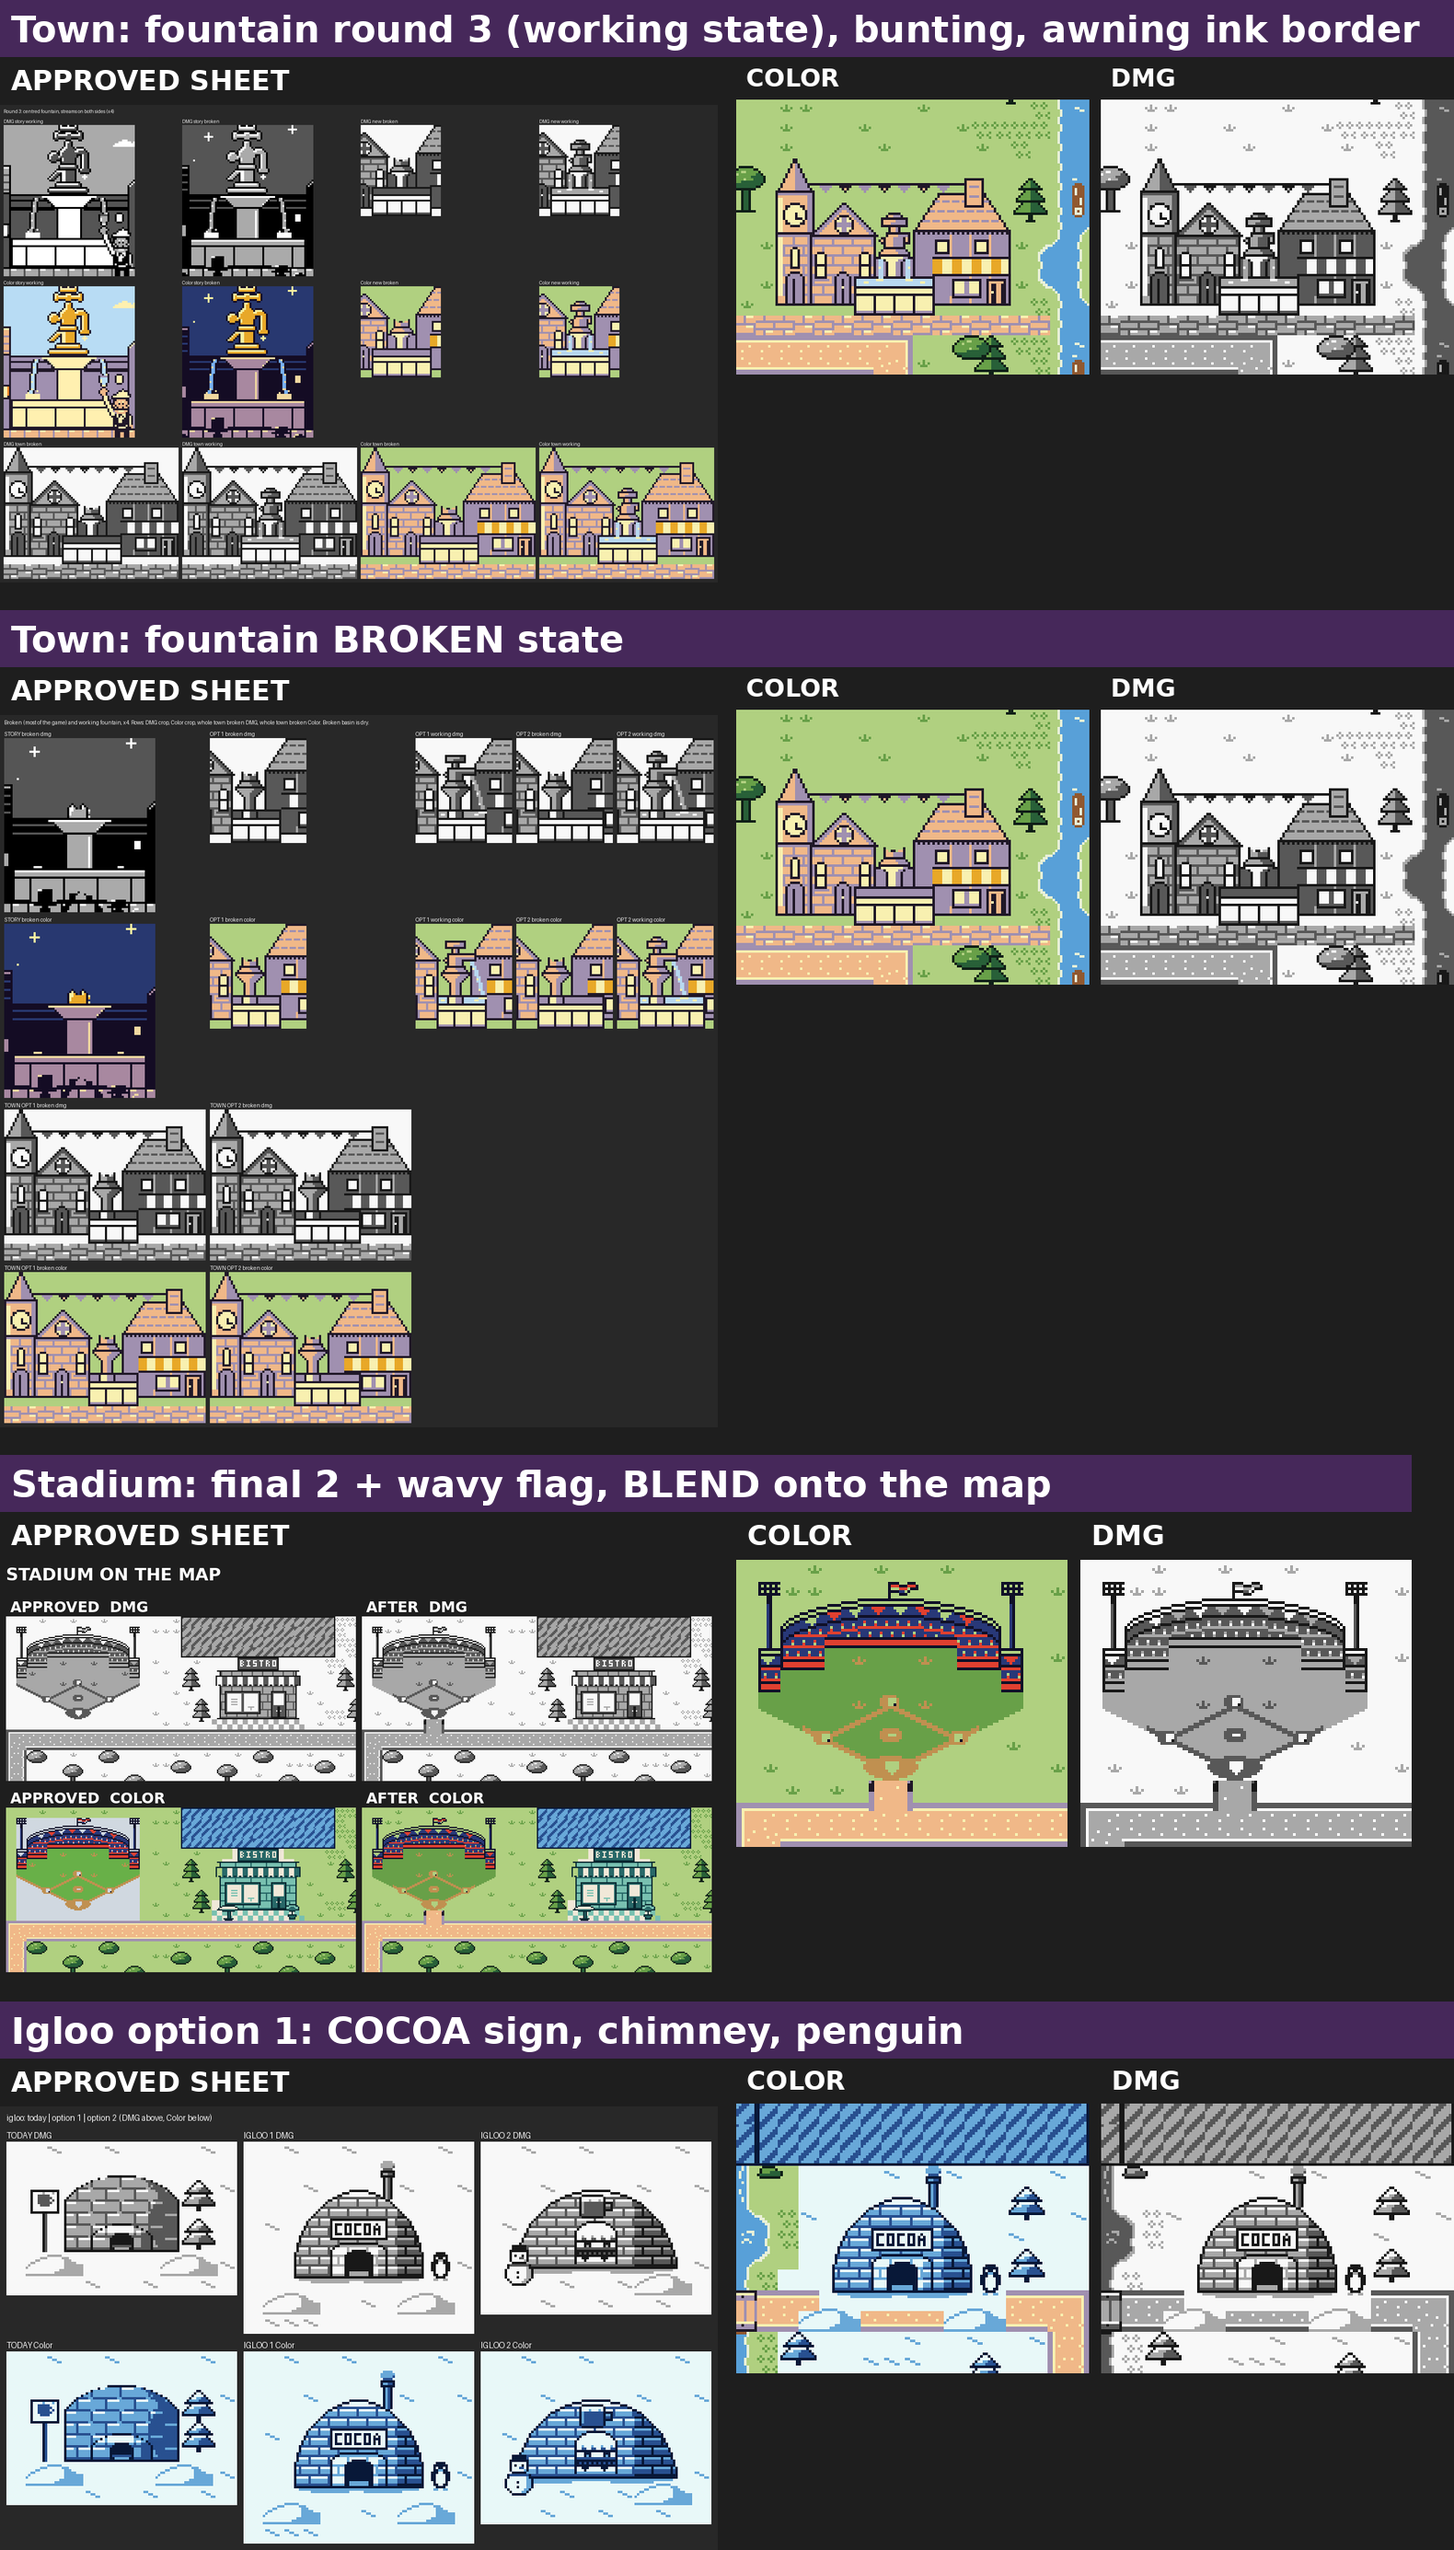
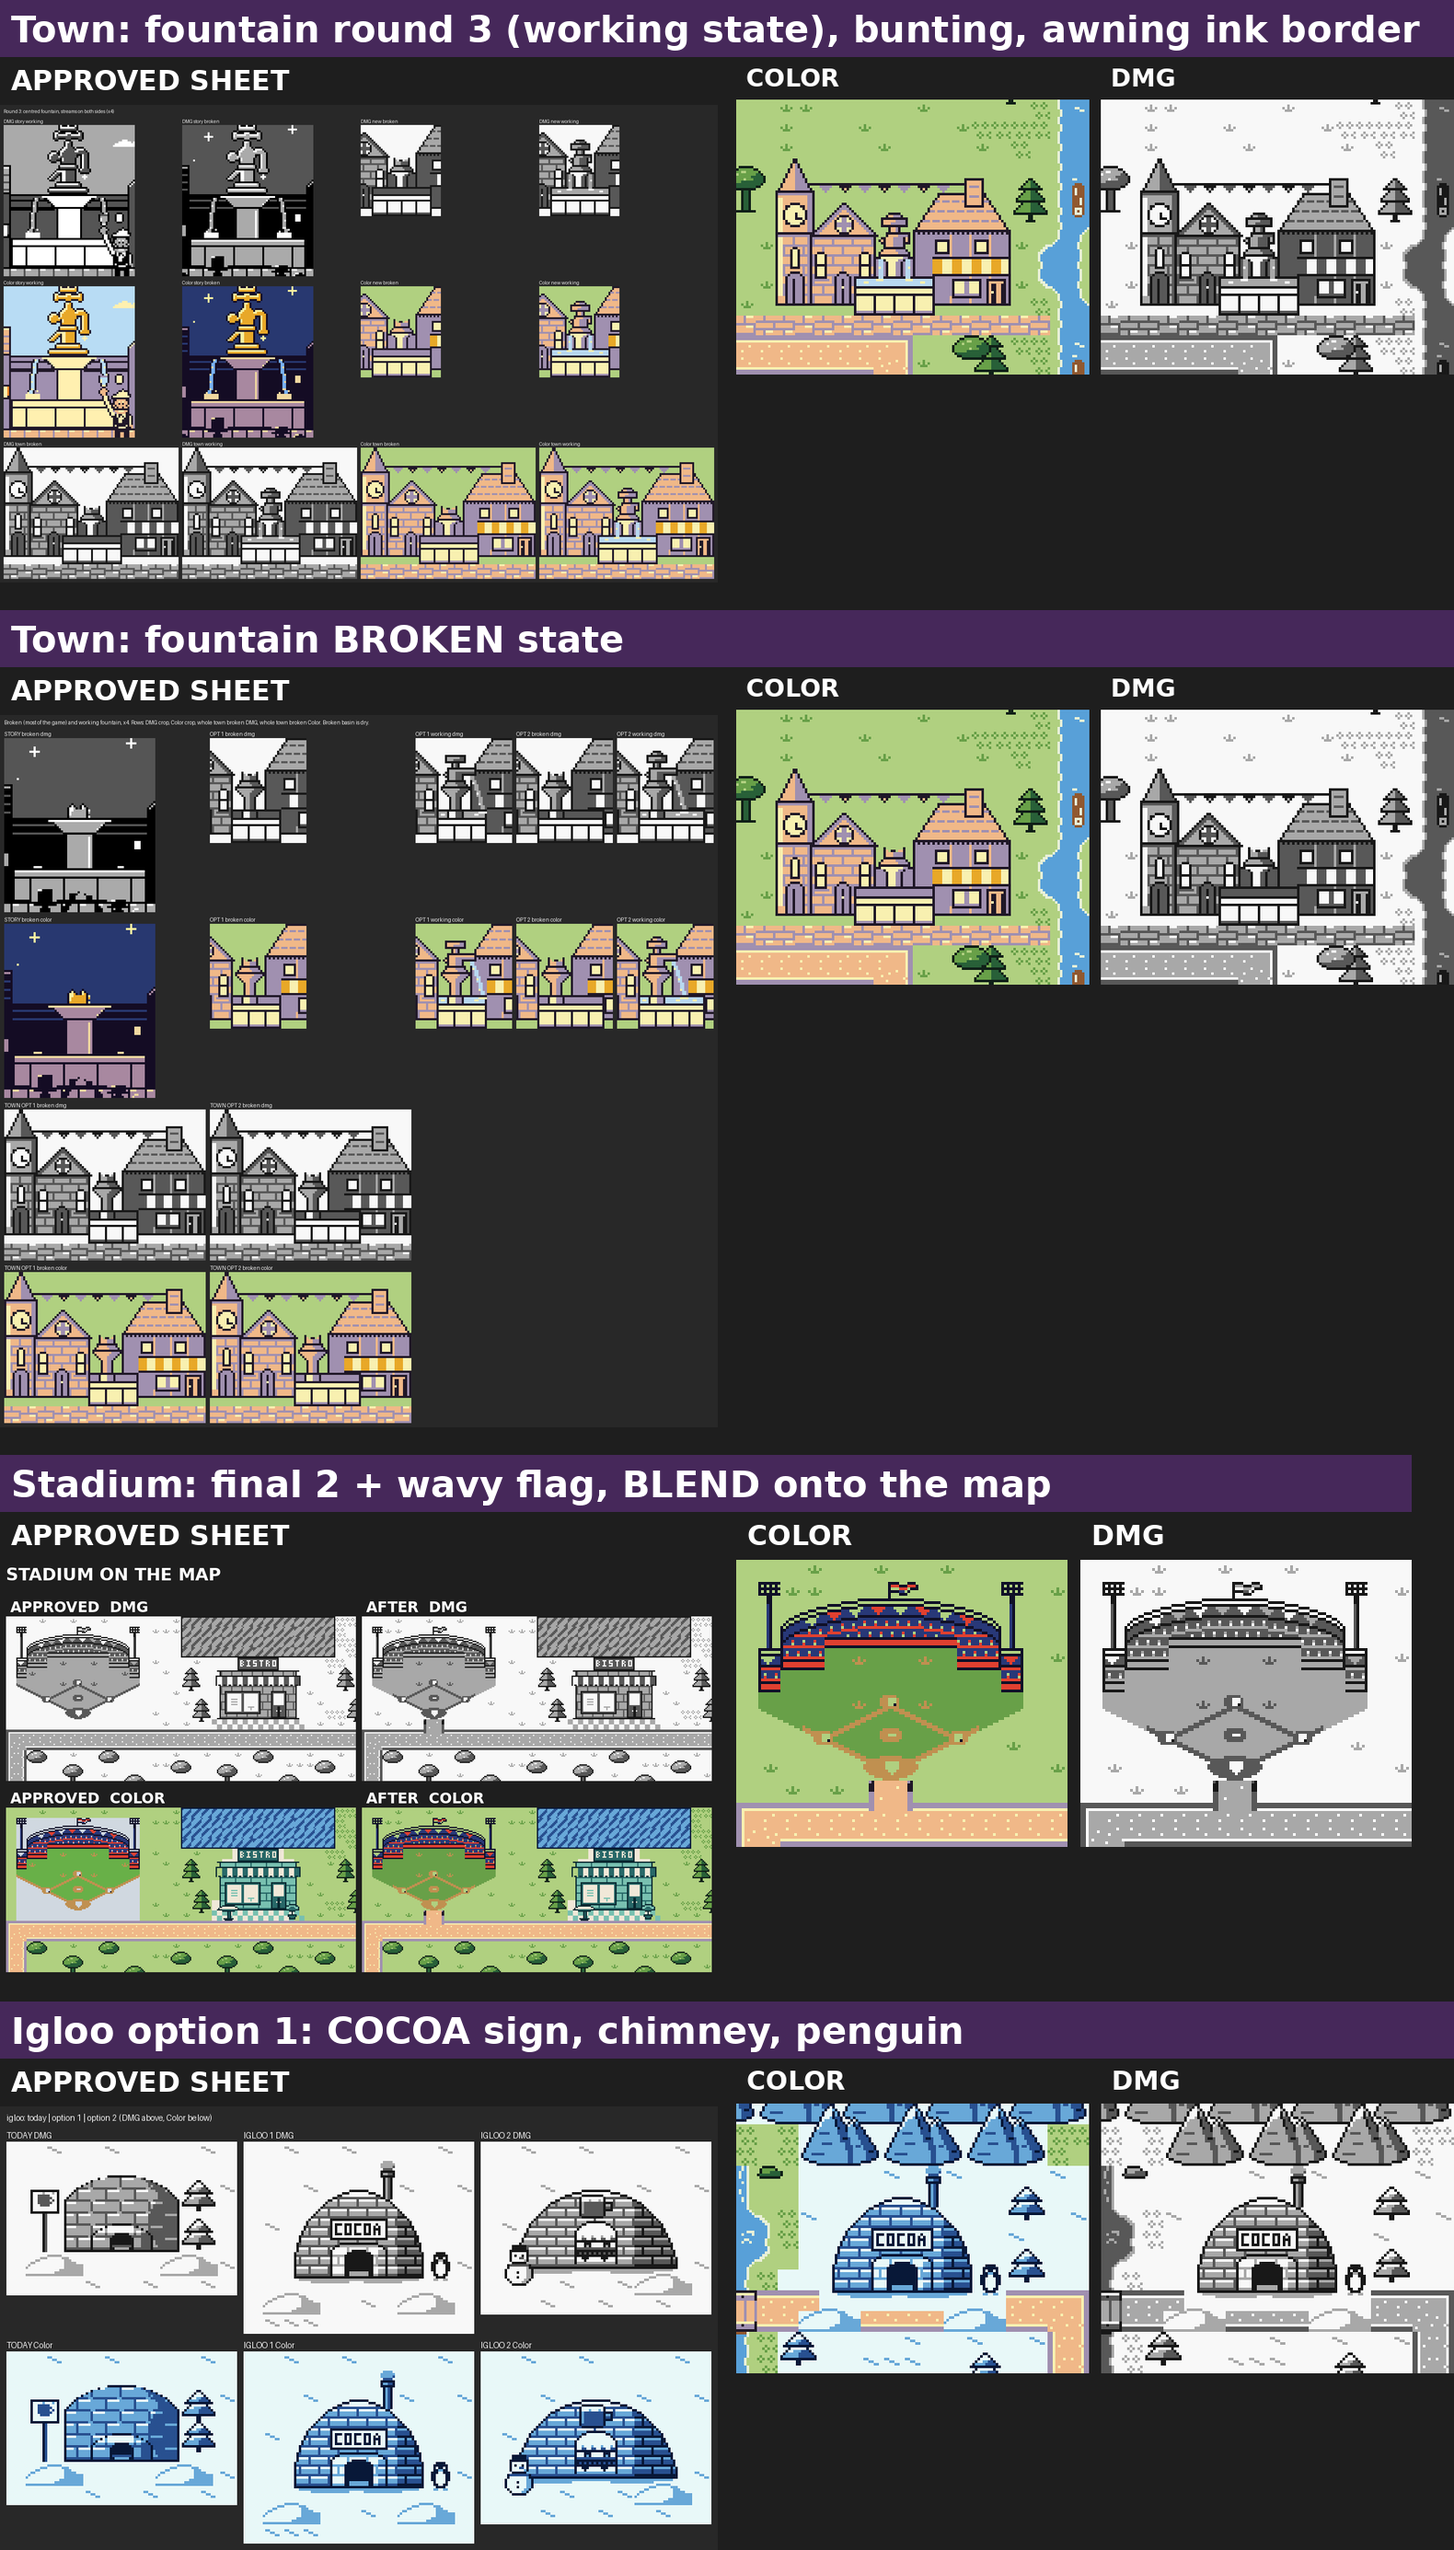
Story map import stage 1: real range art instead of the hatched placeholder boxes
Owner: "the maps got those big stand in rectangles". The only boxes left were A5's three range areas; they now hold the approved round 3 range peaks (A desert staggered row, B and C snowy two tiers). Whole-map sheet and ranges close-up re-rendered, numbers recounted (DMG 749 tiles, worst view 143/152, 8 palettes per window, 20 table entries). Proposal only.

Claude-Session: https://claude.ai/code/session_01WXumg9pvGTKbXyU3qBciuY

Changed region(s): [[0.4962, 0.8069, 1.0, 0.869]]

diff --git a/docs/dev/proposals/smap_import/dump_scenes.py b/docs/dev/proposals/smap_import/dump_scenes.py
@@ -13,7 +13,8 @@ from pathlib import Path
 kind = sys.argv[1]
 P = Path(__file__).resolve().parents[1]
 ROOT = P.parents[2]
-SRC = {"stadium": "smap_stadium", "igloo": "smap_venue_redesign", "mountain": "smap_hangar", "cow": "smap_milkbar"}[kind]
+SRC = {"stadium": "smap_stadium", "igloo": "smap_venue_redesign", "mountain": "smap_hangar", "cow": "smap_milkbar",
+       "range_a": "smap_venue_redesign3", "range_b": "smap_venue_redesign3", "range_c": "smap_venue_redesign3"}[kind]
 sys.path.insert(0, str(ROOT / "tools/smap_world"))
 if kind == "cow":                                            # smap_milkbar/src/a5env.py hard-codes another worktree: stand in for it (it only sets the A5 import paths)
     import types
@@ -42,6 +43,16 @@ elif kind == "mountain":
     import sheet_h9 as M
     c = M.build("n")
     res.update(at=[9, 36], mode="all", w=c.w // 8, h=c.h // 8, frames=[cells(c)])
+elif kind.startswith("range_"):
+    import mtn_vert as M
+    # round 3 range peak (owner 11-06) composed for the A5 layout's three range areas (cells x, y; px w, h).  Peak places in px inside the area, pasted back (higher) to front (lower):
+    # two tiers where the area is 5 rows high (the front tier stands in front of the gaps of the back tier), one staggered row (8 px up / down) where it is 4 rows.
+    AREAS = {"range_a": ((17, 0), 120, 32, False, [(0, 8), (24, 0), (48, 8), (72, 0), (88, 8)]),
+             "range_b": ((34, 0), 112, 40, True, [(16, 0), (48, 0), (80, 0), (0, 16), (32, 16), (64, 16)]),
+             "range_c": ((48, 0), 128, 40, True, [(0, 0), (32, 0), (64, 0), (96, 0), (16, 16), (48, 16), (80, 16)])}
+    at, w, h, snow, places = AREAS[kind]
+    c = M.stack(sorted(places, key=lambda p: (p[1], p[0])), w, h, snow)
+    res.update(at=list(at), mode="nonblank", w=c.w // 8, h=c.h // 8, frames=[cells(c)])
 else:
     import cow_a5 as M
     c = M.build_final()

diff --git a/docs/dev/proposals/smap_import/renders.py b/docs/dev/proposals/smap_import/renders.py
@@ -26,7 +26,9 @@ PIECES = [
     ("igloo", (47, 2, 64, 15), "smap_venue_redesign/igloo_sheet.png", "Igloo option 1: COCOA sign, chimney, penguin", False),
     ("airbase", (2, 31, 31, 46), "smap_hangar/hangar_sheet9.png", "Airbase 4i, jet nudged right (on the map at cell 4, 34)", False),
     ("milkbar", (46, 45, 64, 66), "smap_milkbar/milkbar_sheet14.png", "Milk bar: sign B raised + 4 px left, body on base, tea cell", False),
-    ("lodge", (52, 16, 64, 28), None, "Lodge chimney smoke (static art at rest)", False),
+    ("ranges_ab", (16, 0, 48, 7), "smap_venue_redesign3/range_horizontal_sheet.png", "Ranges A (desert) and B (snowy), round 3 peaks", False),
+    ("ranges_c", (47, 0, 64, 7), "smap_venue_redesign3/range_vertical_sheet.png", "Range C (snowy, two tiers) over the igloo and the river source", False),
+    ("lodge",(52, 16, 64, 28), None, "Lodge chimney smoke (static art at rest)", False),
     ("factory", (50, 34, 64, 47), None, "Factory stacks (static art at rest)", False),
 ]
 
@@ -101,7 +103,7 @@ def sheet(out):
         cols = [label(L(f"{tag}_{key}_color.png"), "COLOR", 30), label(L(f"{tag}_{key}_dmg.png"), "DMG" + (" DARK" if water else ""), 30)]
         if water:
             cols.append(label(L(f"B_{key}_dmg.png"), "DMG LIGHT", 30))
-        mine = stack_h(cols)
+        mine = stack_v(cols) if key == "ranges_ab" else stack_h(cols)
         mine = fit(mine, COLW) if mine.width > COLW else mine
         left = label(fit(Image.open(PROP / appr).convert("RGB"), COLW), "APPROVED SHEET", 30) if appr else label(Image.new("RGB", (COLW, 60), (60, 60, 60)), "no sheet: see the animation strips", 30)
         row = stack_h([left, mine], gap=20)

diff --git a/docs/dev/proposals/smap_import/mapctx.py b/docs/dev/proposals/smap_import/mapctx.py
@@ -38,6 +38,7 @@ for k in ("cow", "stadium", "igloo", "space"):
     V[k] = ("anim_stub", V[k][1])
 V["town"] = ("v_town_fx", V["town"][1])
 lay.VENUES = V
+lay.RANGES = []                                             # the three hatched placeholder boxes along the top: the round 3 range pieces are pasted instead (scenes/range_*.json)
 
 import pal as PAL  # noqa: E402
 import world2 as W  # noqa: E402
@@ -110,7 +111,7 @@ g0 = PAL.RGB["grass"][0]
 PAL.RGB["stadium"] = [g0] + list(PAL.RGB["stadium"][1:])
 paste("stadium")
 PAL.RGB["park"] = [g0, PAL.RGB["grass"][1]] + list(PAL.RGB["park"][2:])
-for _n in ("igloo", "mountain", "cow"):
+for _n in ("igloo", "mountain", "cow", "range_a", "range_b", "range_c"):
     paste(_n)
 _ed = _load(PROP / "smap_stadium/src/edits.py", "stadium_edits")
 _ed.edit(W)

diff --git a/docs/dev/proposals/smap_import/build.py b/docs/dev/proposals/smap_import/build.py
@@ -20,7 +20,7 @@ def run(args, env=None):
 
 run([ROOT / "docs/dev/proposals/smap_layout_a5/mk_src.py"])
 run([ROOT / "docs/dev/proposals/smap_layout_a5/mk_a5.py"], {"SMAP_LAYOUT": "lay_A5"})
-for k in ("stadium", "igloo", "mountain", "cow"):
+for k in ("stadium", "igloo", "mountain", "cow", "range_a", "range_b", "range_c"):
     run([HERE / "dump_scenes.py", k, HERE / "scenes" / f"{k}.json"])
 for tag, env in (("dark", {}), ("light", {"SMAP_WATERDMG": "light"}), ("broken", {"SMAP_BROKEN": "1"})):
     (OUT / tag).mkdir(parents=True, exist_ok=True)

diff --git a/docs/dev/proposals/smap_import/NOTES.md b/docs/dev/proposals/smap_import/NOTES.md
@@ -10,6 +10,11 @@ A5 (2b2fce68), anim (dc5c1781; it already contained fountain, stadium, igloo, ai
 - Milk bar: final build (sign B raised, 4 px left, 104 px wide picture at cell (49,47)), body on `base`, pasture replaces the hay field.
 - Airbase moved (see below).
 
+## Placeholder boxes (owner: "Nope the maps got those big stand in rectangles.") -- fixed in the second commit
+Boxes left on the integrated map after stage 1: only the three hatched RANGE boxes of A5 (`lay.RANGES`): A cells (17,0) 15x4, B (34,0) 14x5, C (48,0) 16x5 (assumed 26, 30, 36 tiles, palette igloo). The space lounge (`ph_space` 22x12 at (10,33)) and the ballpark (`ph_stadium`) boxes were already replaced by the airbase and the stadium; every other venue (bistro, igloo, saloon, lodge, factory, zoo, tea, town, cow) is real art. No placeholder without approved art remains.
+Ranges now: the round 3 peak (`smap_venue_redesign3/src/mtn_vert.py`, owner 11-06), pasted by `dump_scenes.py range_a|b|c`, nothing redrawn. A (4 rows) one staggered row, desert (saloon palette), peaks at px (0,8) (24,0) (48,8) (72,0) (88,8); B (5 rows) two tiers, snowy: back (16,0) (48,0) (80,0), front (0,16) (32,16) (64,16); C (5 rows) two tiers, snowy: back (0,0) (32,0) (64,0) (96,0), front (16,16) (48,16) (80,16). Pasted back (higher) to front, cells with no peak pixel keep the map ground; the falls and river source (rows 5 and below) are untouched. Choice: desert only for A (above the bistro), B and C snowy next to the igloo and the snow edge. Doubt: partly filled cells carry the range palette's ground (sand or snow), so the desert range shows a sandy halo on the grass (a palette with grass as index 0 would turn the caps green; not done).
+Tiles: DMG 749 (was 758 with the boxes), range pieces cost less than the boxes' assumed 92; palettes per 21x19 window 8 (worst at (25,1)), 0 over; 22x20 region 9; table 20 entries (19 with the fountain broken); generator OK.
+
 ## Two forced choices (supervisor please look)
 1. **Airbase at cell (4, 34)** (was (6, 36) in the animation import, dump position (9, 36)). Reason A: the milk bar sign now puts a COW cell at x 49, which, with the airbase's `base` cells at x 29..30, made 12 windows hold 9 palettes (tea, base, cow, tea@g, farm, saloon, town1, water, grass). Two cells west clears them (0 windows over). Reason B: replacing A5's 22x12 placeholder (70 distinct tiles) with the sparse picture left a 259-cell flat tile in a 22x20 window (limit 239). Fix: the airbase's all-blank cells keep the map's own desert ground (mode nonblank: ground tufts show; base and saloon share index 0 f8e090, so Color is unchanged) and the piece sits 2 cells higher (rows 34..42, two sand rows between the runway and the road): 238. y 35 gives 243, y 36 gives 247 (fail). Alternative if the owner wants it on the road: about 8 more desert decor cells above it. The animation items follow (airbase item rows/view moved by text patch in `anim_run.py`).
 2. **Palette table is 20 entries, not 19**: A5's 18, plus PARK (stadium) and `base` (airbase + milk bar body; A5 had spent `base` on town1@g). In the BROKEN fountain state `town4` is unused (19 entries), but the working state needs it. story_scratch re-lay needs +6 B for 20 (free: 2 B at 238..239 and 9 B at 291..299, so it still fits: A_PSLOT 214, A_PUSE 234, A_ATTR_UI 242, A_IDA 262, A_PSTG 284 ends 293, 7 B before A_XSTG 300; verify in stage 2).
@@ -17,11 +22,11 @@ A5 (2b2fce68), anim (dc5c1781; it already contained fountain, stadium, igloo, ai
 ## Numbers (A5 generator on the integrated map)
 | | DMG dark, fountain working | DMG light | DMG dark, fountain broken |
 |---|---|---|---|
-| DMG tiles, whole map | 758 | 759 | 753 |
+| DMG tiles, whole map | 749 | 750 | 744 |
 | worst 21x19 view (limit 176) | 143 at (39,8) | 143 | 143 |
 | worst 22x20 view | 152 at (38,7) | 152 | 152 |
 | flat tile uses in a 22x20 window (limit 239) | 238 | 238 | 238 |
-| Color tiles / slots | 815 / 352 | 815 / 352 | 810 / 352 |
+| Color tiles / slots | 806 / 352 | 806 / 352 | 801 / 352 |
 | palettes per 21x19 window (max 8) | 8, 0 windows over | 8, 0 | 8, 0 |
 | palettes in a 22x20 window (not a limit) | 9 | 9 | 9 |
 | palette table entries | 20 | 20 | 19 |
@@ -31,7 +36,7 @@ Generator: BUDGET OK, 0 cells snapped (it asserts every cell's palette is in the
 104 new tile images in ROM (water 6, falls and foot 38 incl. 6 replacing static tiles, fountain 6, bunting 6, stadium flag 4, airbase 4, lodge smoke 8, igloo smoke 3, factory 15, cow tails 6, logs 8), 14 new tile ids (lodge 2, factory 2, cows 2, logs 8), 11 items. DMG VBlank peak, tiles (16 B each) per view: river top 5 (80 B), town 5 (80), lodge 3 (48), factory 3 (48), milk bar 2 (32), airbase 1 (16), stadium 2 (32), igloo 6 (96, the worst real view), river scrolled 5 (80), logs 3 (48); everything at once 21 (cannot happen). Identical to the animation notes, so nothing on the integrated map changed the cadence. The fountain's streams animate only in the working state.
 
 ## Doubts
-- 758 DMG tiles whole map (A5 562) is the real cost of real art over the placeholders; the engine pool per view is fine (143 of 176).
+- 749 DMG tiles whole map (A5 562) is the real cost of real art over the placeholders; the engine pool per view is fine (143 of 176).
 - The 22x20 palette count of 9 is the loaded region, not a screen; the generator does not check it. Stage 2 should confirm the engine only needs 8 for what is shown.
 - Igloo/road overlap and the flat-tile fix above are layout judgement calls.
 - Stage 2 not started; no engine files touched.
